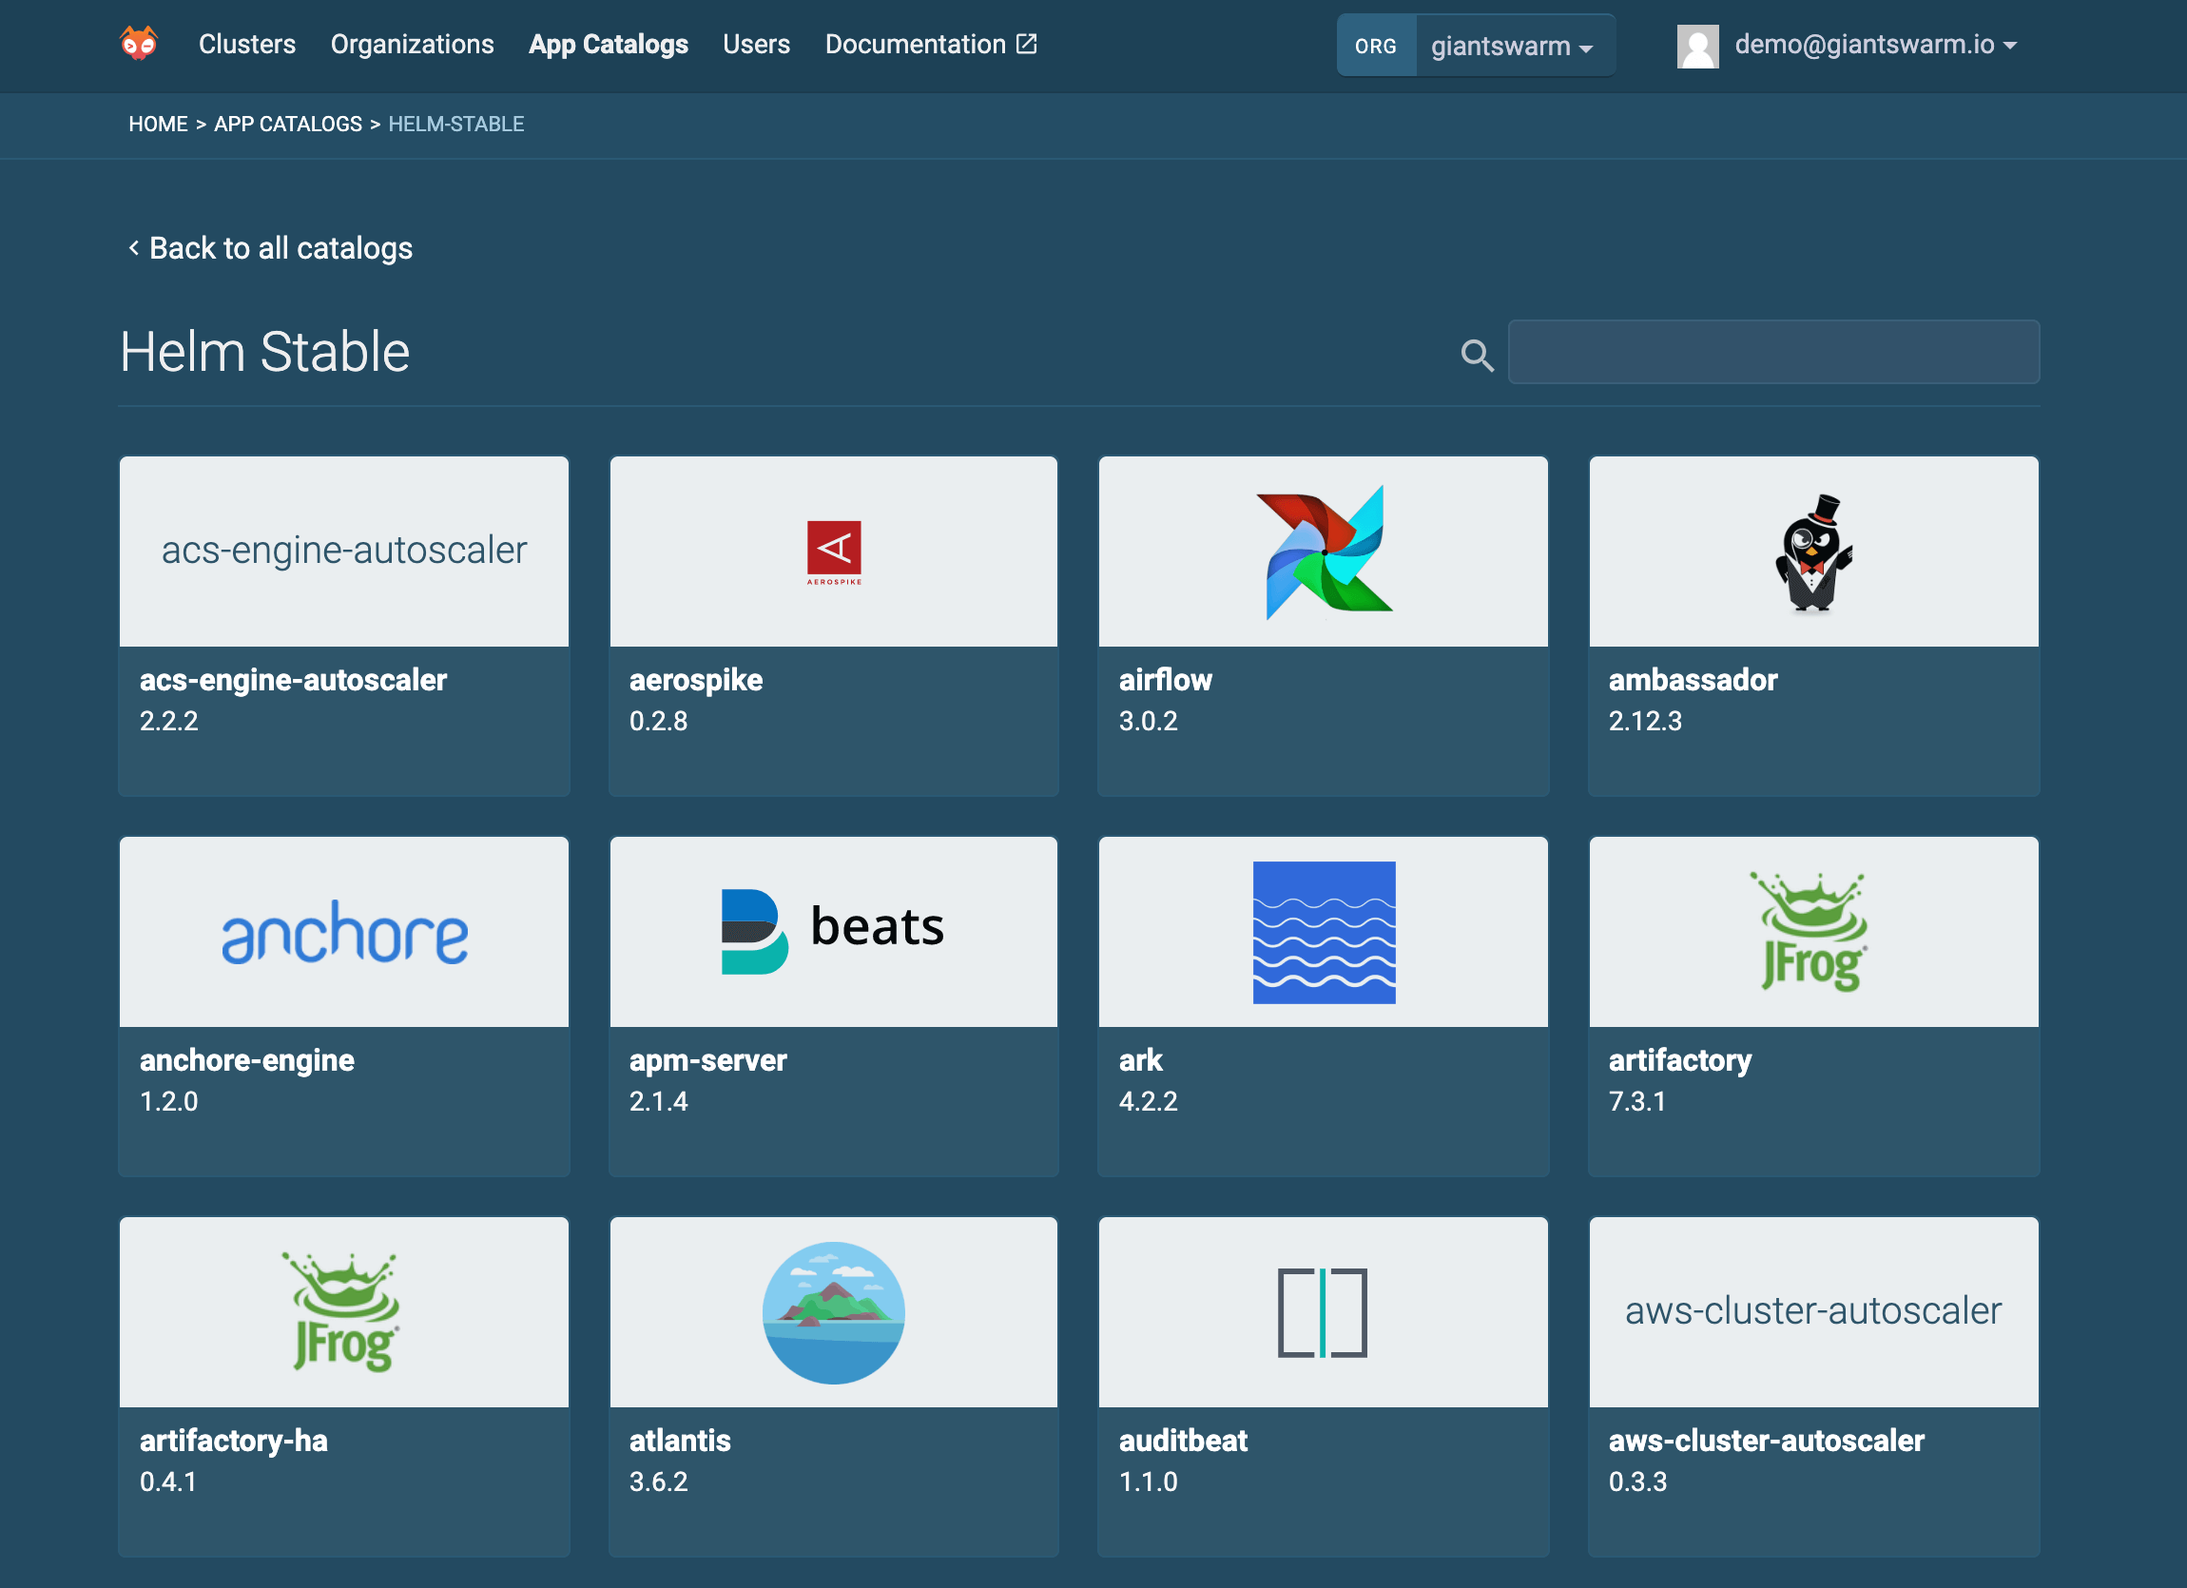
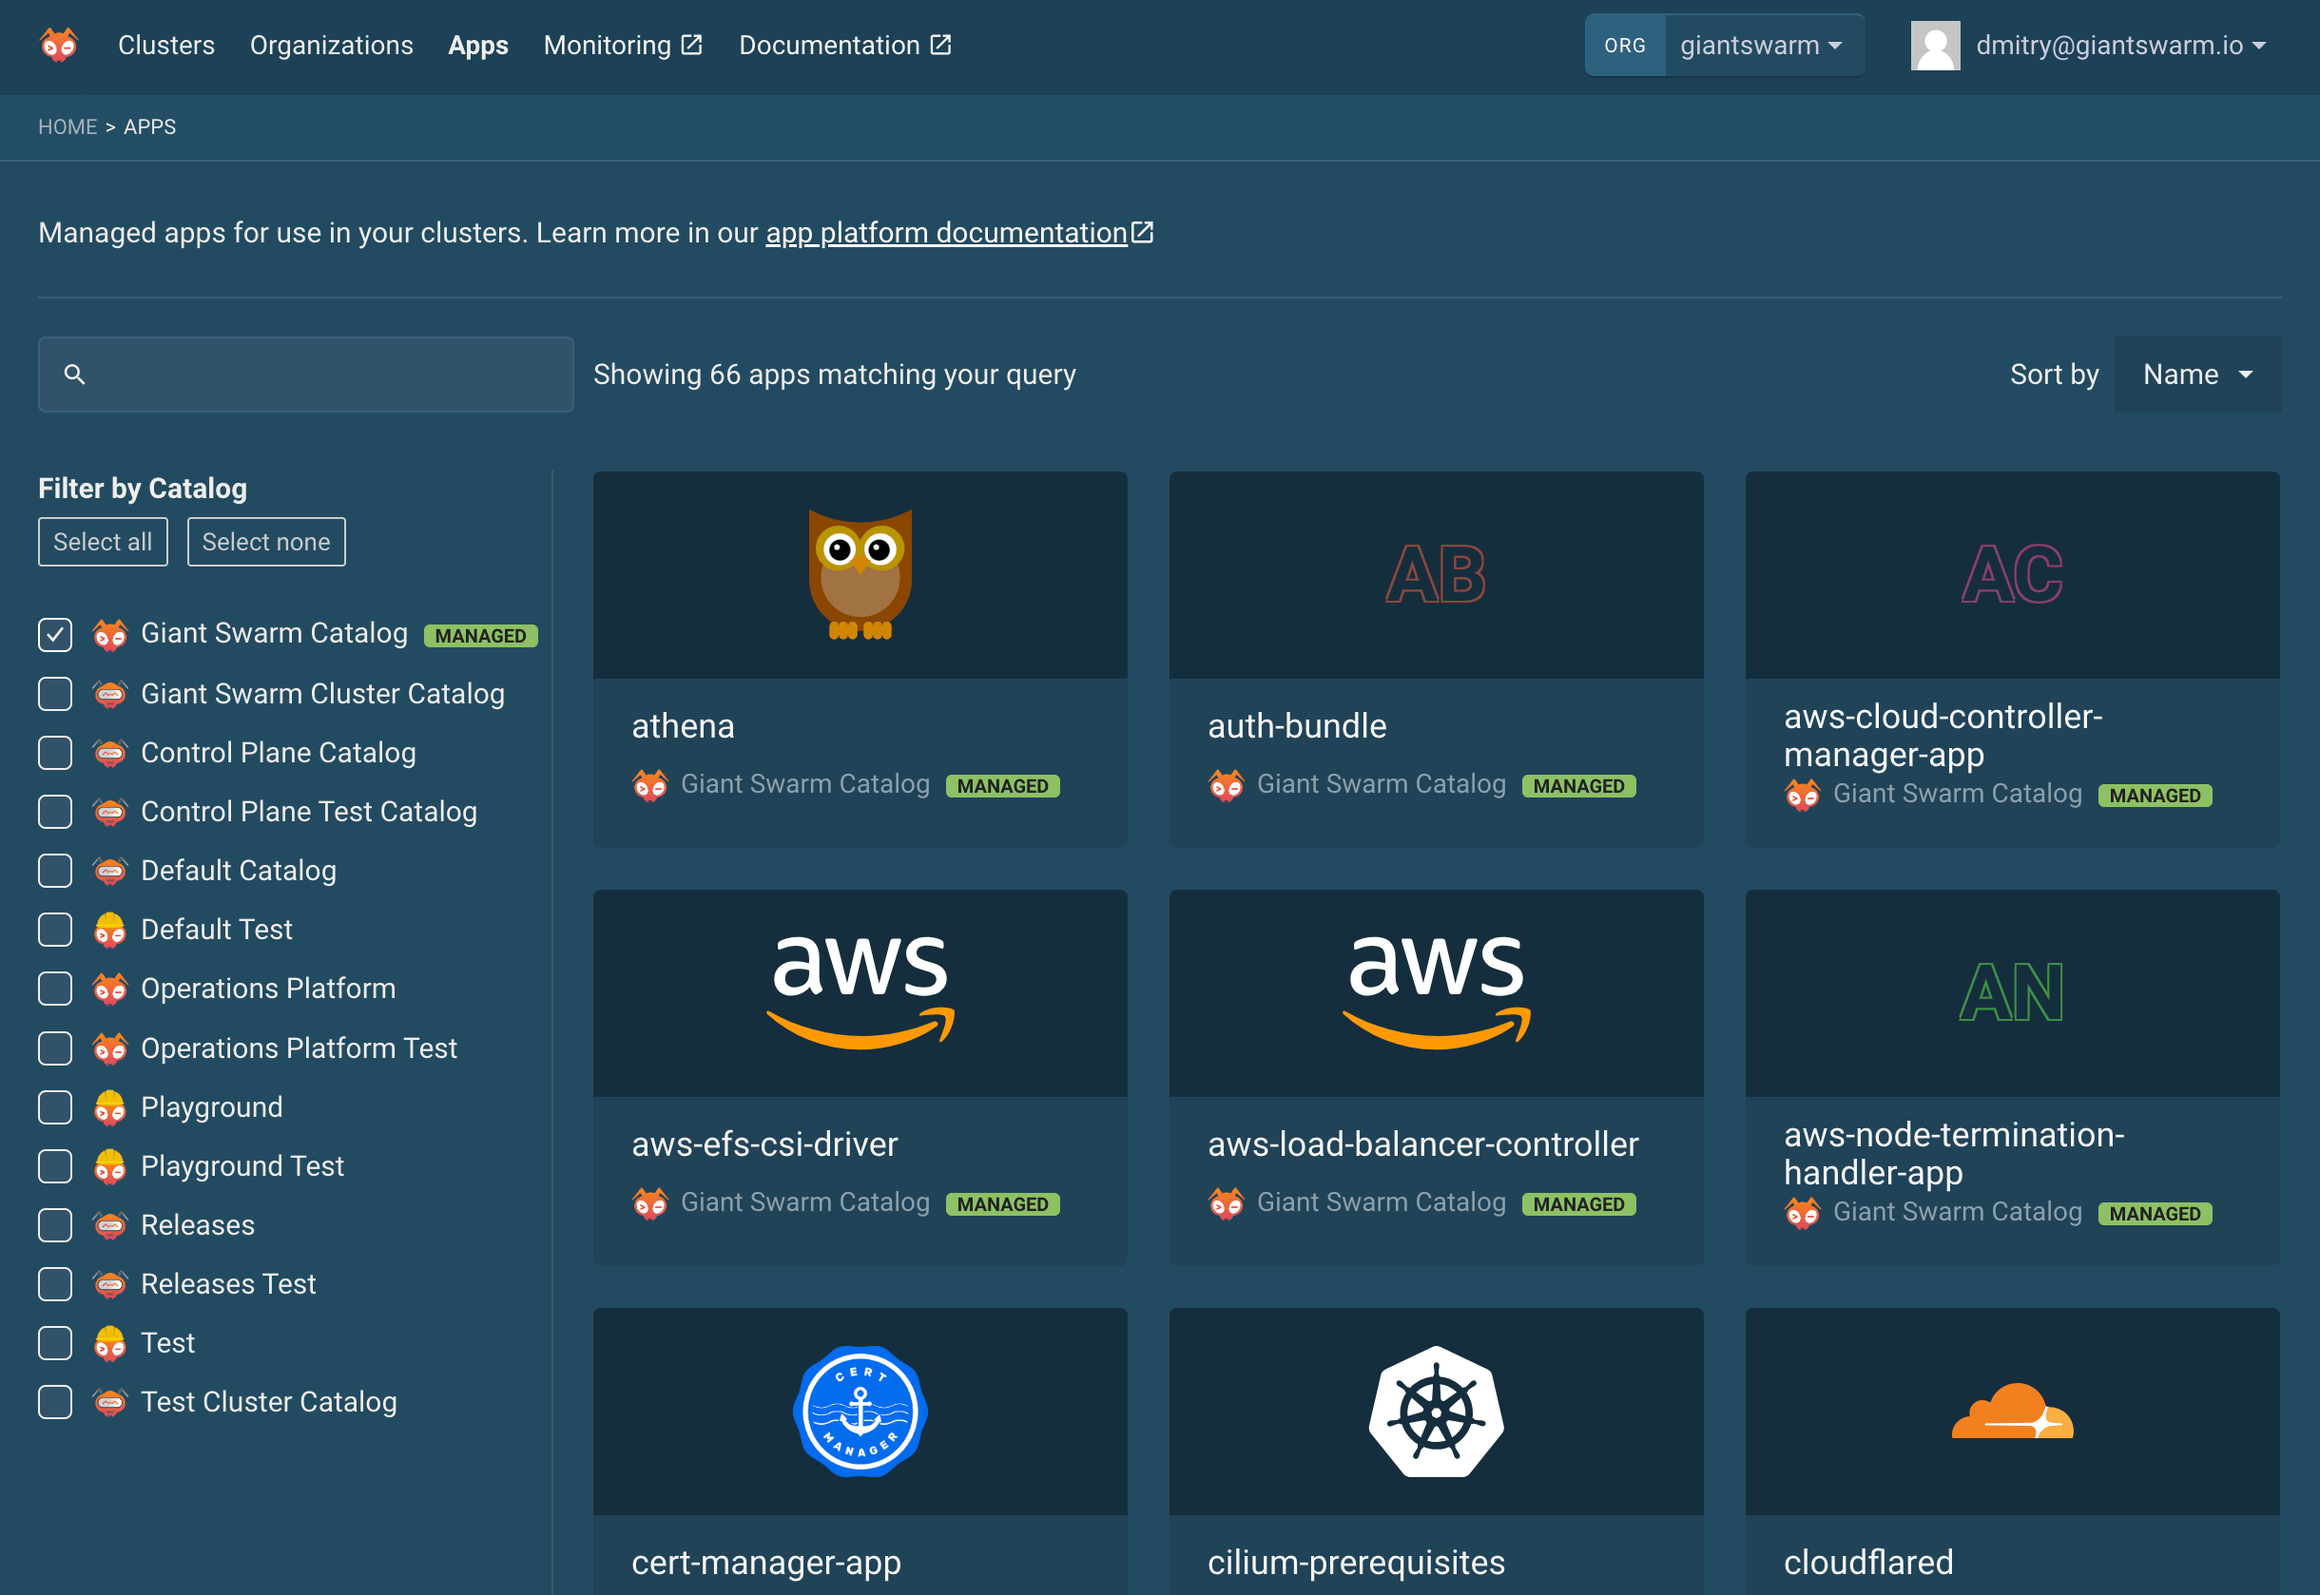
Review web interface app platform

diff --git a/src/content/platform-overview/web-interface/app-platform/index.md b/src/content/platform-overview/web-interface/app-platform/index.md
@@ -2,7 +2,7 @@
 linkTitle: App platform
 title: The Giant Swarm App Platform in the web interface
 description: What the Giant Swarm App Platform looks like on our web interface and how to use it.
-last_review_date: 2022-11-18
+last_review_date: 2024-01-18
 weight: 50
 menu:
   main:
@@ -30,21 +30,18 @@ If you'd like to know more about the App Platform in general, go here for an [ov
 ## Viewing all App Catalogs
 
 Our web interface lets you browse the App Catalogs installed on your Management Cluster API (MAPI).
-Click on "App Catalogs" in the navigation menu. The "App Catalogs" link will only be visible if your MAPI has at least one App Catalog installed on it.
+Click on "Apps" in the navigation menu. The "Apps" link will only be visible if your MAPI has at least one App Catalog installed on it.
 
-The screenshot below shows what the "App Catalogs" page looks like with two app catalogs
-installed:
+The screenshot below shows what the "Apps" page looks like:
 
-![A screenshot of our web interface, showing a list of available app catalogs](app-catalogs.png)
+![A screenshot of our web interface, showing a list of apps in selected app catalogs](apps.png)
 
 ## Installing an App
 
 Click on the catalog you'd like to install from. Only apps in the Managed catalog will be monitored and managed by us. More info about Managed App [here]({{< relref "/platform-overview/app-platform" >}}).
 
-![A screenshot of our web interface, showing a list of apps in an app catalog](apps.png)
-
 Once you know what app you'd like to install, click on that app, and then on
-"Configure & Install"
+"Install in cluster"
 
 ![A screenshot of our web interface, showing the detail page for a specific app, in this case Grafana](app-detail-page.png)
 
@@ -83,4 +80,4 @@ app you would like to edit.
 
 Once there you should see a dropdown that you can use to pick a different version.
 
-![A screenshot showing where you can edit the app's version](app-version-picker.png#width-60)
+![A screenshot showing where you can edit the app's version](app-details.png#width-60)
